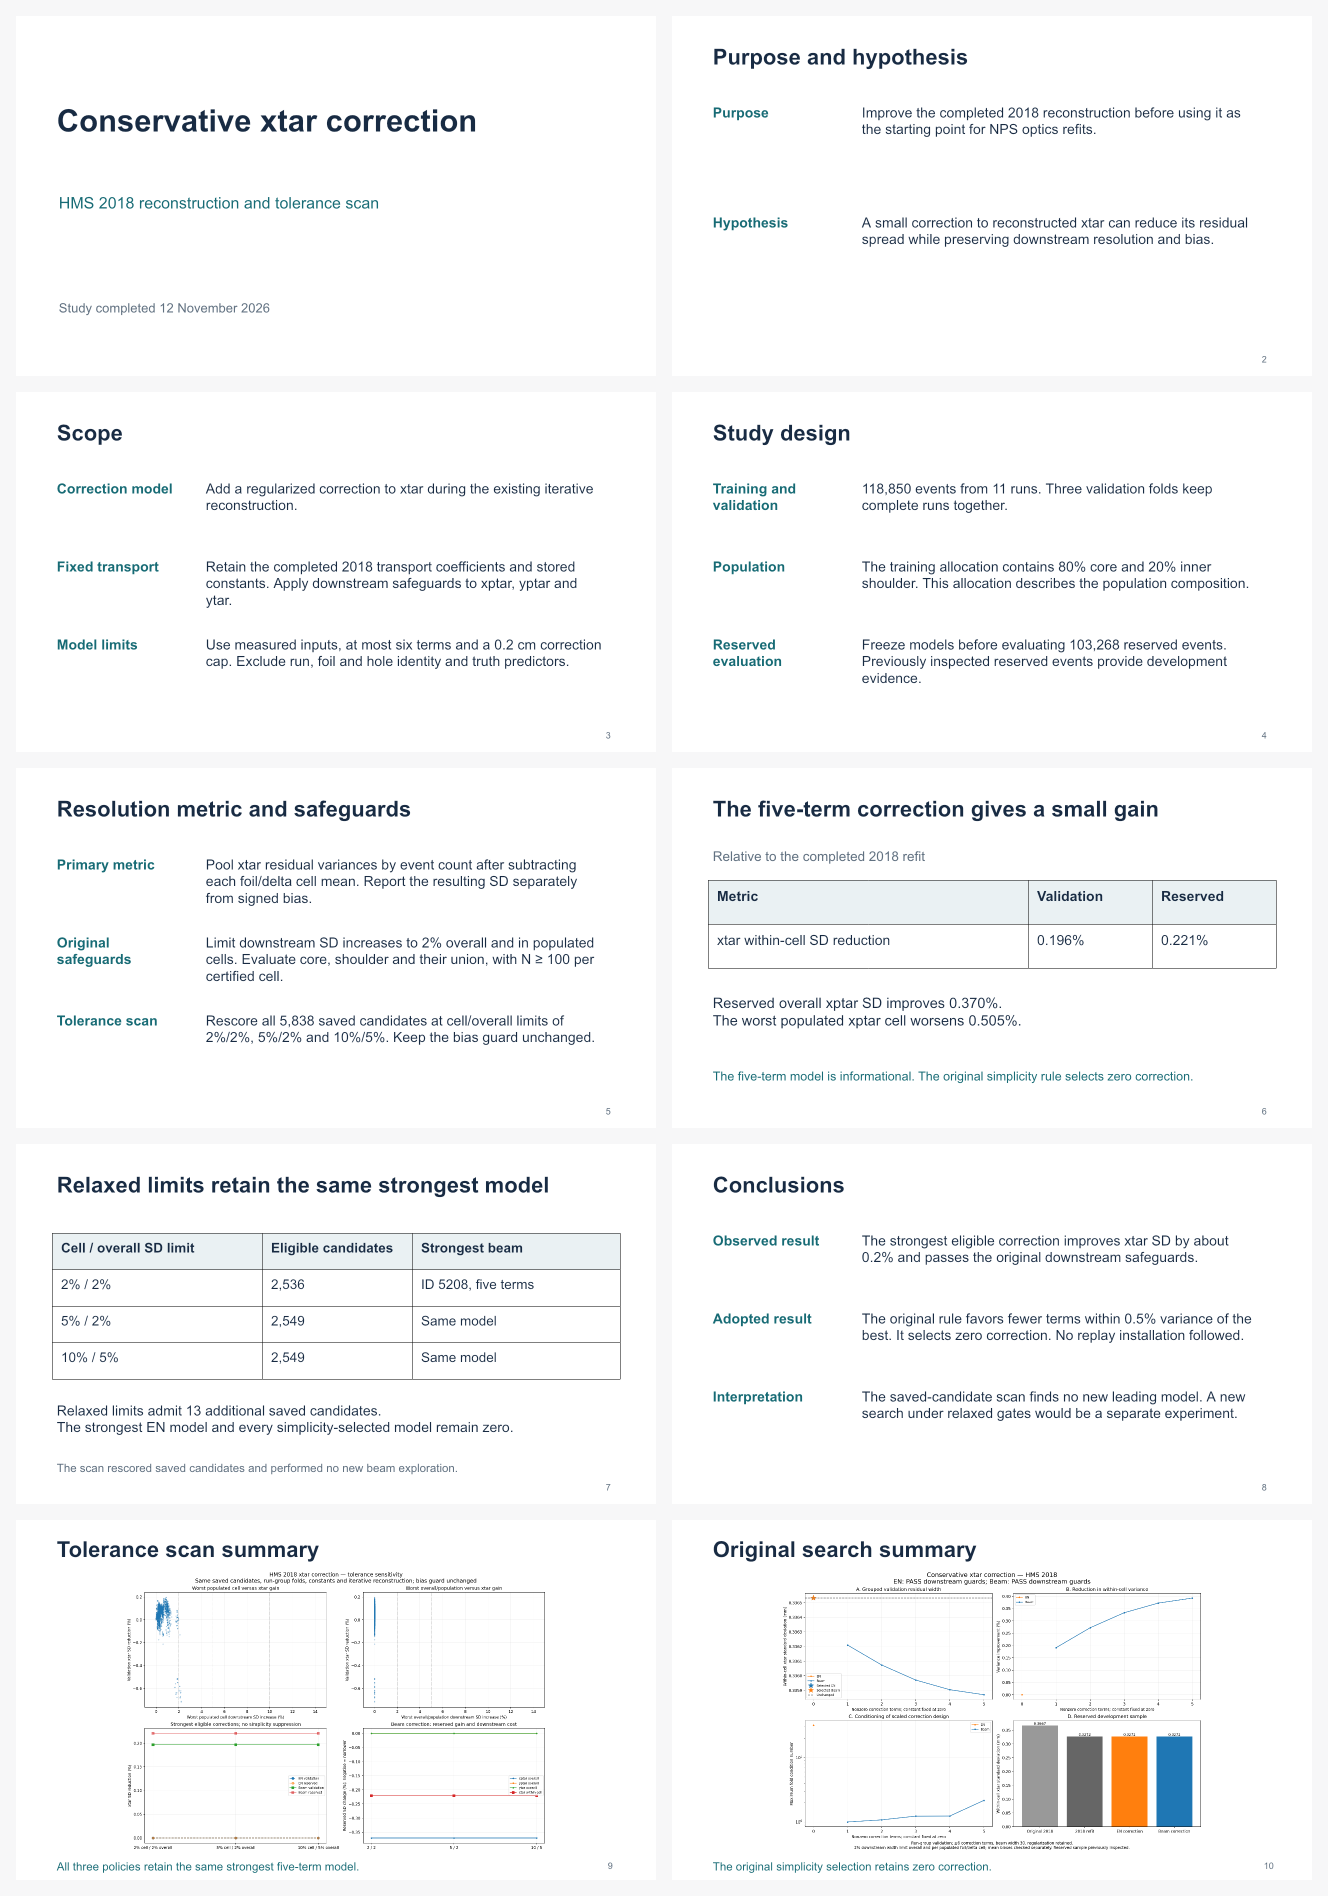
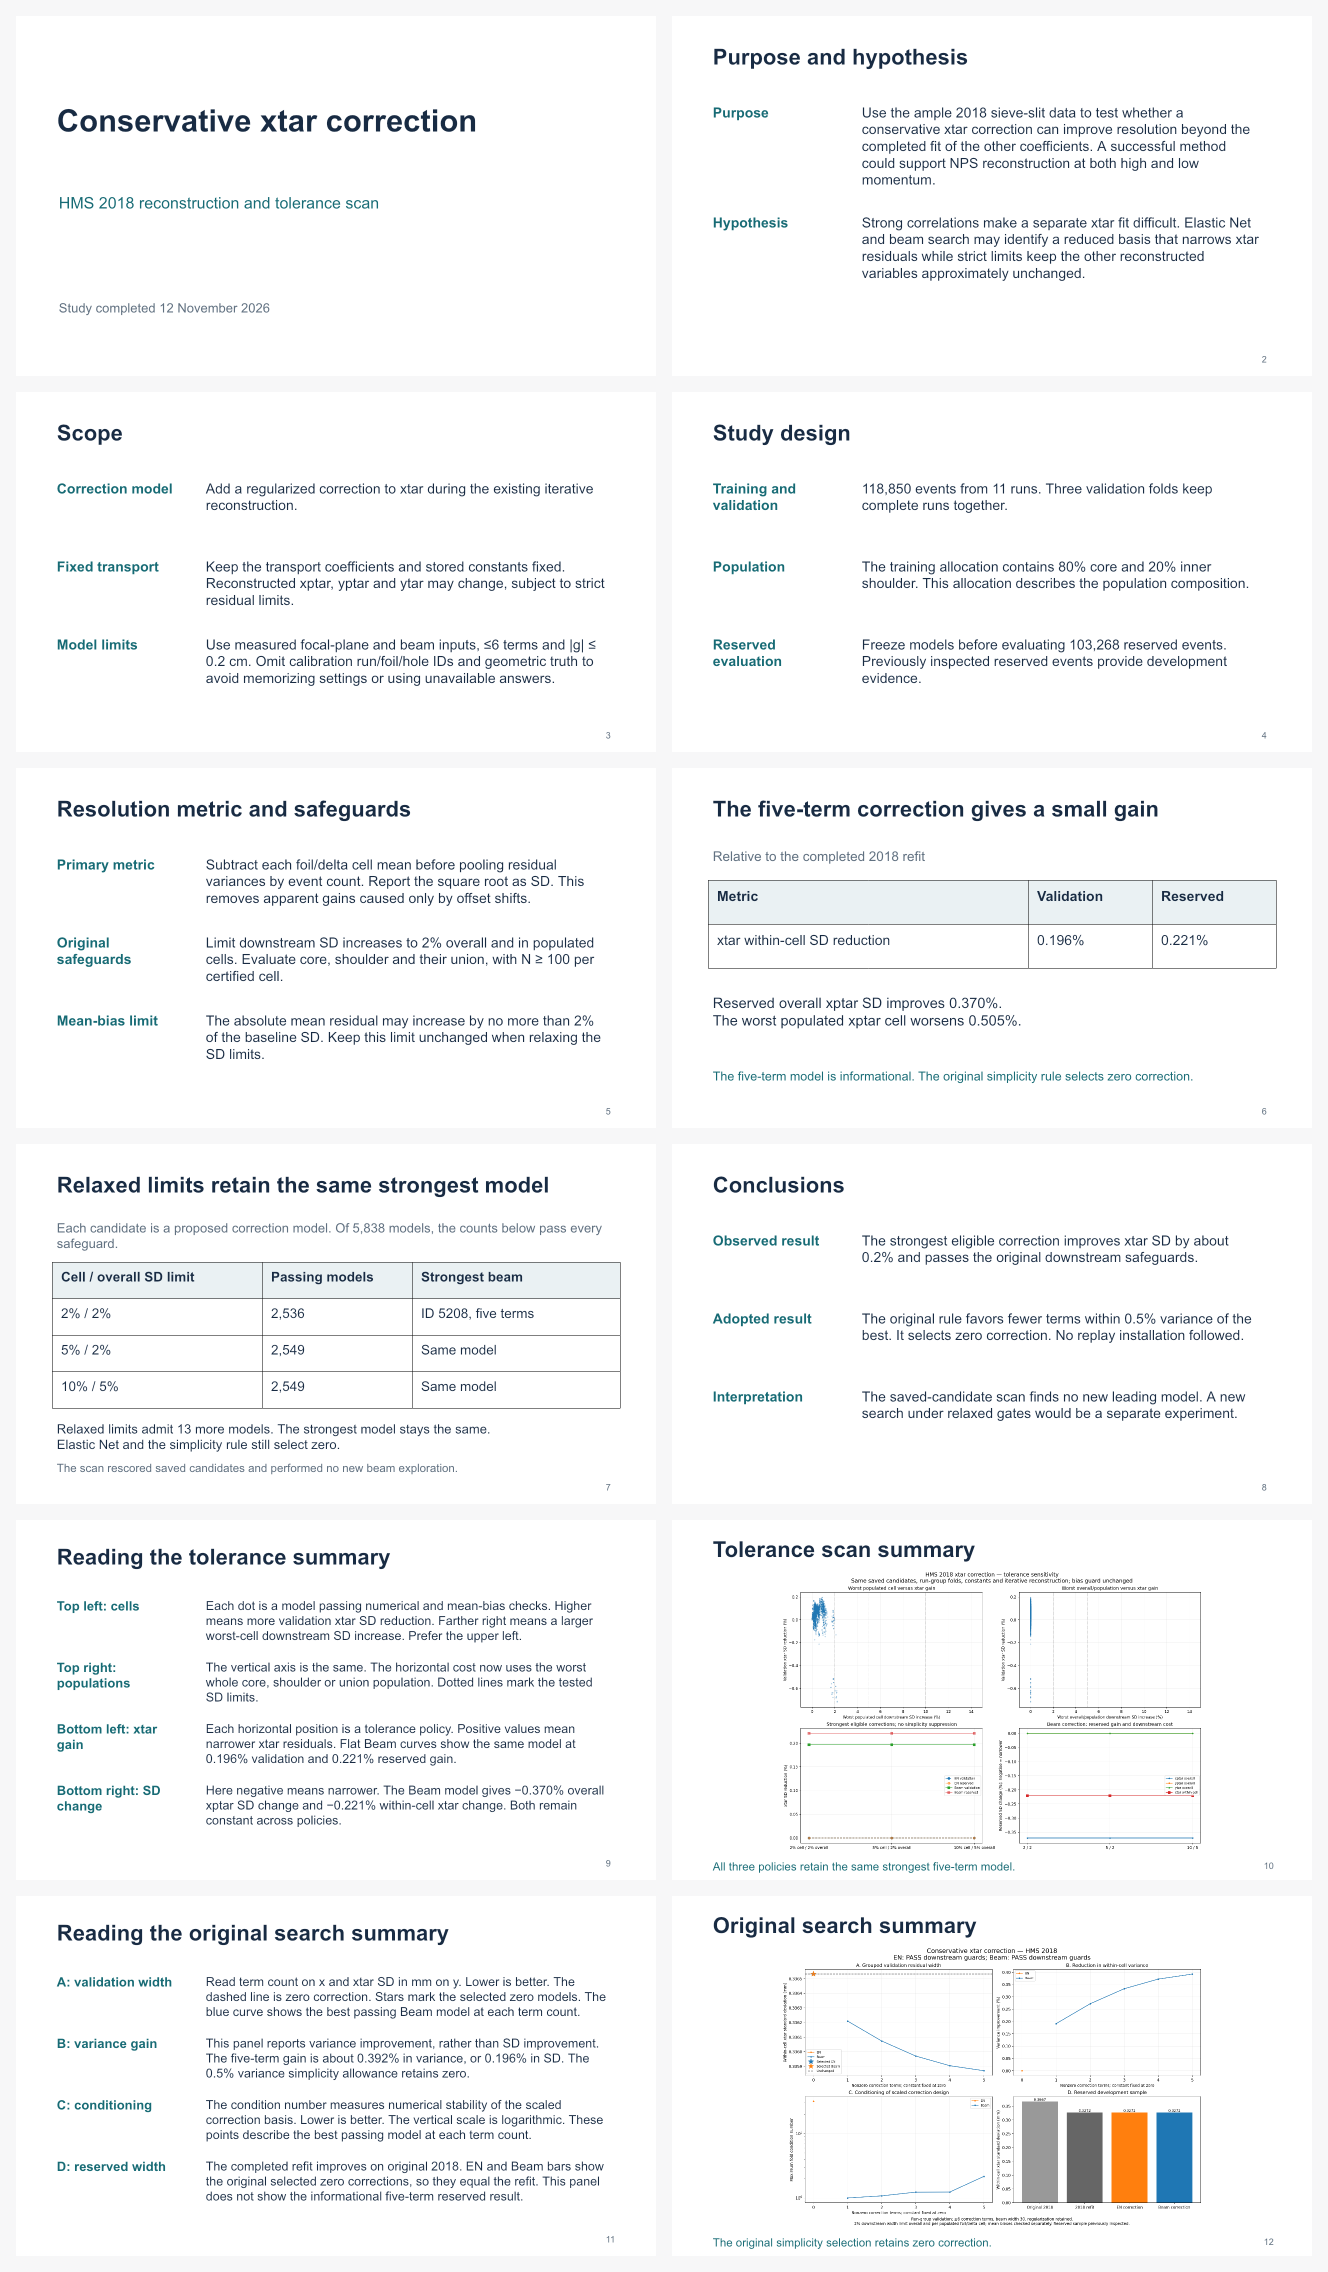
Revise xtar study slides and guides

diff --git a/STUDY_REFERENCE.md b/STUDY_REFERENCE.md
@@ -8,11 +8,21 @@ replay closure or report a new optics refit.
 
 ## 1. Purpose and hypothesis
 
-The practical aim was to improve the completed 2018 reconstruction before
-using it as the starting point for NPS optics refits. The experiment tested
-whether a small, regularized, measured-input correction to reconstructed xtar
-could reduce its residual spread while keeping downstream resolution and bias
-within explicit limits.
+The practical aim was to use the ample 2018 sieve-slit data to determine
+whether a conservative xtar fit could improve resolution beyond the completed
+fit of the other coefficients. The study motivation was that correlations
+between xtar and other reconstruction variables make a separate fit difficult.
+A reduced basis selected with Elastic Net and beam search might improve xtar
+while strict limits preserve the performance of the other reconstructed
+variables. A successful method could support NPS optics at both high and low
+momentum. Transfer to those NPS settings is an intended application, rather
+than a result established by this 2018 study.
+
+The completed experiment implemented this idea as a small, regularized,
+measured-input additive correction to reconstructed xtar. It did not refit
+xtar-dependent transport coefficients. Downstream resolution and bias were
+allowed to change within explicit limits, rather than being held exactly
+constant.
 
 All coefficients of the completed 2018 transport matrix remained fixed.
 Changing its xtar input can nevertheless change reconstructed xptar, yptar,
@@ -118,6 +128,17 @@ measured quantities: xfp, xpfp, yfp, ypfp and beam y. Each basis column includes
 There is no free correction intercept and no run, foil, hole identity or truth
 predictor.
 
+Run, foil and hole identity mean calibration labels: the data-taking run,
+the known target foil and the known sieve aperture. Including them as model
+inputs could let the fit memorize calibration settings. Geometric truth means
+quantities derived from the known calibration geometry, such as xtarT and
+the true target angles. These provide supervised training targets and residual
+references, but an ordinary event does not supply its own true answer as an
+input. The exclusion applies to predictors, not to the calibration events or
+to the use of truth for training and evaluation. The aim is a correction that
+uses measured quantities available during reconstruction. This design choice
+does not itself prove that the correction transfers to a new setting.
+
 Elastic net (EN) screens the basis using its penalized coefficients. The beam
 search has width 30 and a maximum of six nonzero terms. Ridge strength 0.03
 remains in the final fit. Candidate amplitudes are 0.1, 0.25, 0.5 and 1, with
@@ -158,6 +179,25 @@ The guards apply in each validation fold and in pooled validation, then again
 after the final solve on the reserved sample. For each downstream target,
 additional absolute mean bias may not exceed **2% of its baseline SD**. A
 reduction in offset cannot conceal a width loss or count as a width gain.
+
+The term **bias guard** denotes this separate mean-residual constraint:
+
+```text
+abs(mean_candidate) <= abs(mean_baseline) + 0.02 * SD_baseline
+```
+
+It limits the additional absolute displacement, rather than requiring a zero
+mean or limiting total bias to 2% of SD. For example, a baseline SD of 3 mrad
+permits at most 0.06 mrad additional absolute mean residual. The resolution
+metric removes cell means to prevent pure offset shifts from appearing as
+width improvements, while the bias guard still checks those shifts.
+
+A **candidate** is one proposed correction model, specified by its basis,
+regularization and amplitude. An **eligible candidate** passes every applicable
+residual-SD, mean-bias, correction-size, numerical-conditioning and iteration
+requirement. Counts of eligible candidates therefore count models. Events are
+the observations used to fit and evaluate them, and terms are the nonzero
+basis components within one model.
 
 Selection requires no increase in xtar MSE and at least 0.1% xtar SD improvement
 to retain a correction. Among candidates within 0.5% **variance** of the best,

diff --git a/EVIDENCE_INDEX.md b/EVIDENCE_INDEX.md
@@ -10,7 +10,7 @@ comparing figures or model names across the two directories.
 | File | Use |
 |---|---|
 | [Study reference](STUDY_REFERENCE.md) | Method, exact results, interpretation and reproducibility |
-| [Slide deck](slides/xtar_study_summary.pptx) | Eight summary slides plus two original summary figures |
+| [Slide deck](slides/xtar_study_summary.pptx) | Eight summary slides, two figure reading guides and two original summary figures |
 | [Tolerance selection](archive/tolerance_scan/selection.tsv) | Strongest candidate and simplicity result for each policy/family |
 | [Reserved summary](archive/tolerance_scan/reserved_summary.tsv) | Five-term gain, downstream changes and reserved guard outcomes |
 | [Five-term model](archive/tolerance_scan/models/cell2_overall2_Beam.json) | Feature labels, final coefficients, rank and condition number |
@@ -105,6 +105,43 @@ wider residuals. Bias maps have a different meaning: their sign is the direction
 of the mean shift, not a general improvement/worsening label. All four targets
 and all foils appear in the archived full-resolution pages. N < 100 cells
 remain uncertified. Small rounded plot labels do not replace the exact TSVs.
+
+### Reading the tolerance summary
+
+The upper panels plot one correction model per dot after the physical and
+mean-bias checks. Vertical position is validation xtar SD reduction, so higher
+is better. The horizontal coordinate is the worst downstream SD increase:
+across populated cells at left and whole core/shoulder/union populations at
+right. Moving right permits more downstream degradation. Dotted vertical lines
+mark the SD limits. Favorable tradeoffs lie toward the upper left, subject to
+all the remaining constraints.
+
+The lower-left panel compares the strongest eligible EN and Beam models across
+the three tolerance policies. Positive means narrower xtar residuals. The flat
+Beam curves show that the same model leads under all three policies. In the
+lower-right panel the sign convention changes: negative SD change means a
+narrower residual. The approximately −0.370% xptar and −0.221% xtar values are
+constant across policies. The former is overall population SD, while the latter
+is pooled within-cell SD.
+
+### Reading the original search summary
+
+Panel A plots validation xtar SD in mm against nonzero correction term count.
+Lower is better. The dashed line is zero correction, and the stars identify
+the original simplicity-selected models at zero terms. The blue curve shows
+the best passing Beam model at each term count.
+
+Panel B uses **variance improvement**, not SD improvement. Approximately 0.392%
+variance reduction corresponds to 0.196% SD reduction. That small gain leaves
+zero correction within the original 0.5% variance simplicity allowance.
+Panel C shows numerical conditioning of the scaled correction design, with a
+logarithmic vertical axis. Smaller condition numbers indicate a more stable
+design; the plotted points describe the best passing model at each term count.
+
+Panel D shows reserved pooled within-cell xtar SD. The completed refit narrows
+the residuals relative to original 2018. The EN and Beam bars represent the
+original selected zero-correction models and therefore coincide with the refit.
+They do not depict the informational five-term model's reserved result.
 
 ## Models, provenance and source
 

diff --git a/README.md b/README.md
@@ -1,11 +1,14 @@
 # HMS xtar correction study
 
 This repository archives the 12 November 2026 study of a small correction to
-reconstructed **xtar** in the completed HMS 2018 optics refit. The purpose was
-to improve that reconstruction before using it for NPS optics refits.
+reconstructed **xtar** in the completed HMS 2018 optics refit. The ample 2018
+sieve-slit sample provided the study data. The aim was to improve xtar beyond
+the completed fit and explore a method that could support NPS optics at both
+high and low momentum.
 
-The hypothesis was that a regularized correction using measured inputs could
-narrow xtar residuals without materially degrading downstream reconstruction.
+The hypothesis was that a reduced basis selected with Elastic Net and beam
+search could narrow xtar residuals despite correlations with other variables,
+while strict residual limits preserved downstream performance.
 The transport coefficients remained fixed. The study used three validation
 folds grouped by run, followed by evaluation on a previously inspected reserved
 development sample.
